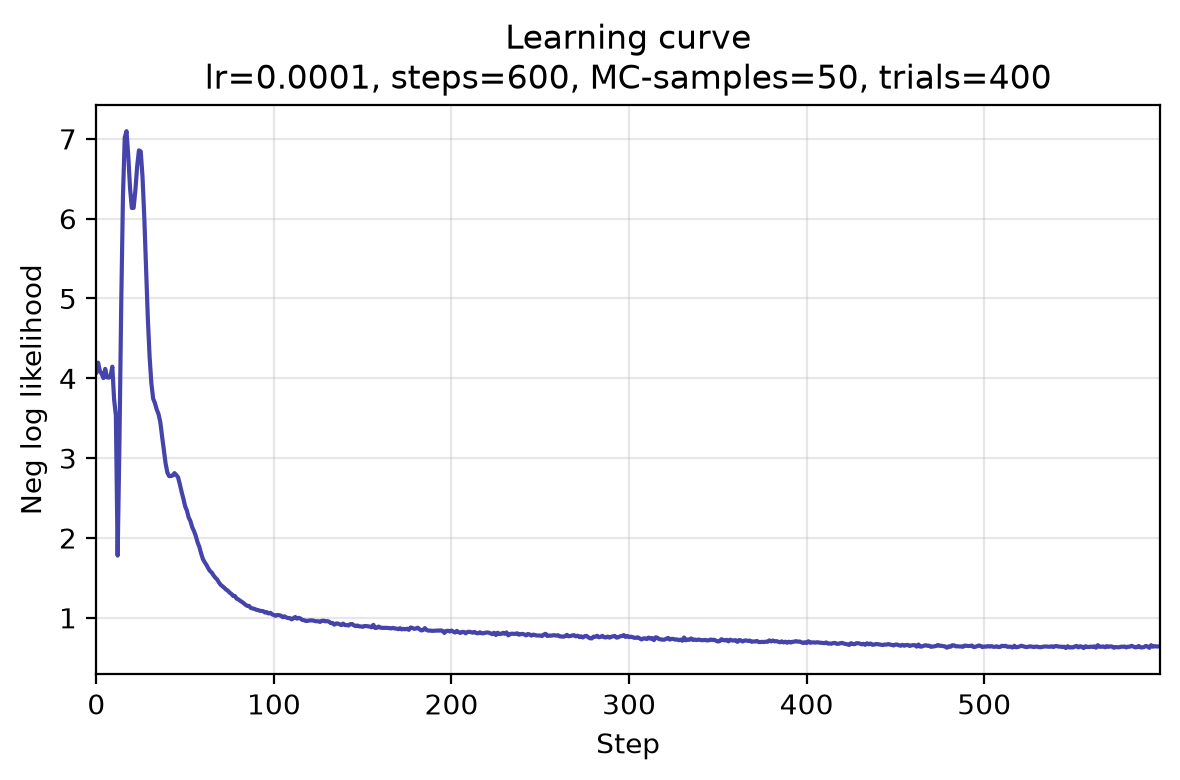
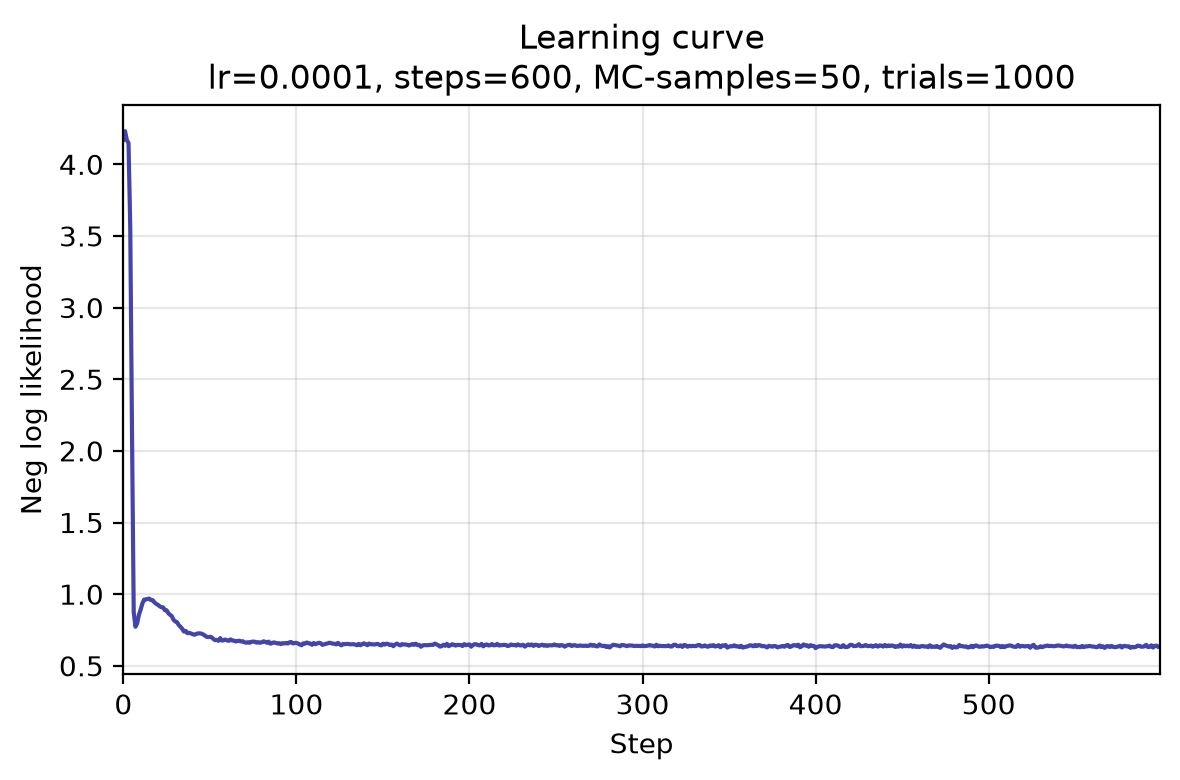
fixed random seed divergence in regression tests

diff --git a/tests/test_quick_start_recovery.py b/tests/test_quick_start_recovery.py
@@ -8,14 +8,27 @@ to data simulated from a known WPPM recovers the ground-truth covariance.
 This exists because the tutorial's committed figure once showed a good fit that
 the committed code could not reproduce -- the fit had silently collapsed to zero
 covariance and nothing caught it, because "the script ran without error" was the
-only check. The failure mode is specific and worth naming: with all trials at a
-*single* reference point the likelihood is weak, and below roughly 200 trials
-the prior's shrinkage wins and drives the weights to zero. That produces a
-plausible-looking run, a monotone learning curve, and a meaningless fit.
+only check.
 
-The settings here mirror ``docs/examples/wppm/quick_start.py``. If that script's
-compute settings change, change them here too -- the point is to pin the
-tutorial's result, not an arbitrary configuration.
+The settings were first calibrated on a local, current jax install, and the
+first version of this test failed immediately on CI. The reason: CI's ``tests``
+job floor-tests against ``jax==0.4.28`` (see ``.github/workflows/lint.yml``),
+which is not just numerically different from a current jax but draws different
+samples from the *same* ``PRNGKey`` -- so ground truth, init and data are a
+different problem instance per jax version, not a noisy variant of the same one.
+At low trial counts (checked from n=10 to n=60) the outcome is not a clean
+"collapses to zero" failure either; it is chaotic across both seed and jax
+version, landing anywhere from near-zero to a several-times overshoot to a
+numerical blow-up. There is no trial count in that range where a specific
+failure shape is portable, so this file does not try to pin one -- see
+``test_too_few_trials_is_not_pinned_here`` below.
+
+The settings here (1000 trials, not the tutorial's original 100) mirror
+``docs/examples/wppm/quick_start.py``, calibrated to recover the ground truth
+with margin across both the jax version floor CI pins to and a current jax,
+each over several seeds. If that script's compute settings change, change them
+here too -- the point is to pin the tutorial's result, not an arbitrary
+configuration.
 """
 
 import jax.numpy as jnp
@@ -35,7 +48,7 @@ from psyphy.model import (
 
 # Kept in sync with docs/examples/wppm/quick_start.py.
 MC_SAMPLES = 50
-NUM_TRIALS = 400
+NUM_TRIALS = 1000
 NUM_STEPS = 600
 LEARNING_RATE = 1e-4
 
@@ -43,12 +56,14 @@ REF_POINT = jnp.array([[0.0, 0.0]])
 MAHAL_RADIUS = 2.8
 NOISE_SIGMA = 0.1
 
-# Measured over five init seeds: area ratio 1.019 +/- 0.022, worst relative
-# Frobenius error 0.33. The bounds below are wide enough for Monte Carlo and
-# platform variation, but nowhere near wide enough to admit a collapse (which
-# scores ~0.01) or a divergence.
-AREA_RATIO_BOUNDS = (0.7, 1.4)
-MAX_REL_FROBENIUS = 0.6
+# Measured over five seeds each on both jax==0.4.28 (CI's floor pin) and a
+# current jax: area ratio in [0.98, 1.14], worst relative Frobenius error 0.28.
+# The bounds below keep roughly 2x margin over that worst case in each
+# direction -- generous for Monte Carlo and jax-version variation, but nowhere
+# near wide enough to admit a collapse (scores ~0.01-0.1) or a divergence
+# (scores in the thousands or worse; see the module docstring).
+AREA_RATIO_BOUNDS = (0.6, 1.6)
+MAX_REL_FROBENIUS = 0.5
 
 
 def _area_ratio(fitted, truth) -> float:
@@ -151,19 +166,15 @@ def test_tutorial_settings_do_not_trigger_gradient_clipping(fit):
     assert fit["optimizer"].clip_rate is None
 
 
-def test_too_few_trials_collapses_the_fit():
-    """Pins the failure mode itself, so the bound in AREA_RATIO_BOUNDS is meaningful.
-
-    Not a desired behaviour -- a documented one. If this ever stops collapsing,
-    the prior/likelihood balance has changed and the tutorial's trial count can
-    be revisited.
-    """
-    data, task, noise, truth_field = _simulate(n_trials=100)
-    model = WPPM(prior=Prior(), likelihood=task, noise=noise)
-    init_params = model.init_params(jr.PRNGKey(42))
-    opt = MAPOptimizer(steps=200, learning_rate=LEARNING_RATE)
-    est = opt.fit(model, data, init_params=init_params, seed=4)
-    ratio = _area_ratio(
-        WPPMCovarianceField(model, est.params)(REF_POINT)[0], truth_field(REF_POINT)[0]
-    )
-    assert ratio < AREA_RATIO_BOUNDS[0]
+# Deliberately no "too few trials fails predictably" test. An earlier version
+# asserted that 100 trials reliably collapses the fit to near-zero covariance
+# and failed immediately in CI (jax==0.4.28): under that version's draw from
+# the same seeds, the same config *overshot* by 1.35x instead -- see the module
+# docstring for why. A sweep from n=10 to n=60 (both jax pins, three seeds
+# each) found no trial count with a portable failure shape: outcomes ranged
+# from a ~100x collapse to a several-times overshoot to a numerical blow-up
+# (area ratio > 1e6), depending on seed and jax version alike. A version-robust
+# version of that test would need to characterize instability statistically
+# (e.g. dispersion across an ensemble of seeds) rather than pin one seed's
+# outcome -- worth adding if this module regresses again, but heavier than a
+# quick regression script warrants today.

diff --git a/docs/examples/wppm/quick_start.py b/docs/examples/wppm/quick_start.py
@@ -58,20 +58,27 @@ print("DEVICE USED:", jax.devices()[0])
 
 # --8<-- [start:compute_settings]
 MC_SAMPLES = 50  # MC samples per trial in the likelihood (full example: 500)
-NUM_TRIALS = 400  # total simulated trials (full example: 4000 × 25)
+NUM_TRIALS = 1000  # total simulated trials (full example: 4000 × 25)
 NUM_STEPS = 600  # optimizer steps (full example: 2000)
 
 learning_rate = 1e-4  # full example: 5e-5. The smaller the lr, the more steps
 # are required.
 #
-# These four are not free choices -- they were swept, and the defaults below are
-# the cheapest setting that recovers the ground truth robustly across seeds
-# (fitted/true ellipse area ratio 1.02 +/- 0.02 over five init seeds, ~4 s CPU):
+# These four are not free choices -- they were swept (across both the jax
+# version floor CI pins, jax==0.4.28, and a current jax, and across several
+# seeds each) for the cheapest setting that recovers the ground truth reliably:
+# fitted/true ellipse area ratio within roughly [0.6, 1.6] and no sign of
+# collapse or divergence, ~4-13 s CPU depending on jax version.
 #
 #   * NUM_TRIALS is the binding constraint. All trials sit at a *single*
-#     reference point, so the likelihood is weak; at 100 trials the prior wins
-#     and the fit collapses to zero covariance (area ratio 0.01). 200 is the
-#     floor, 400 is comfortable.
+#     reference point, so the likelihood is weak, and the outcome at low
+#     trial counts is not a clean "collapses to zero" failure -- it is
+#     chaotic: depending on the exact random draw (which differs across jax
+#     versions for the same PRNGKey, not just across seeds) the same trial
+#     count can collapse toward zero, overshoot by several times, or blow up
+#     numerically. Below ~500 trials this instability shows up often enough
+#     to make the fit unreliable; 1000 clears it with margin on every
+#     jax/seed combination tested.
 #   * NUM_STEPS below ~600 overshoots rather than under-fits.
 #   * learning_rate above ~2e-3 diverges to a non-finite loss within 25 steps.
 #
